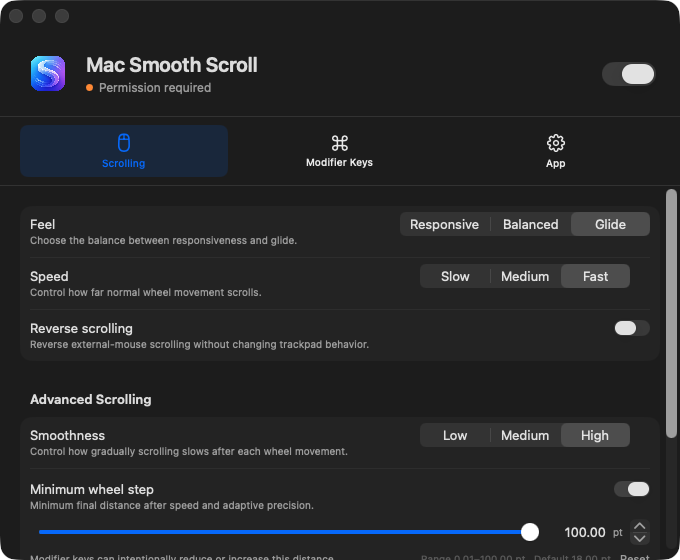
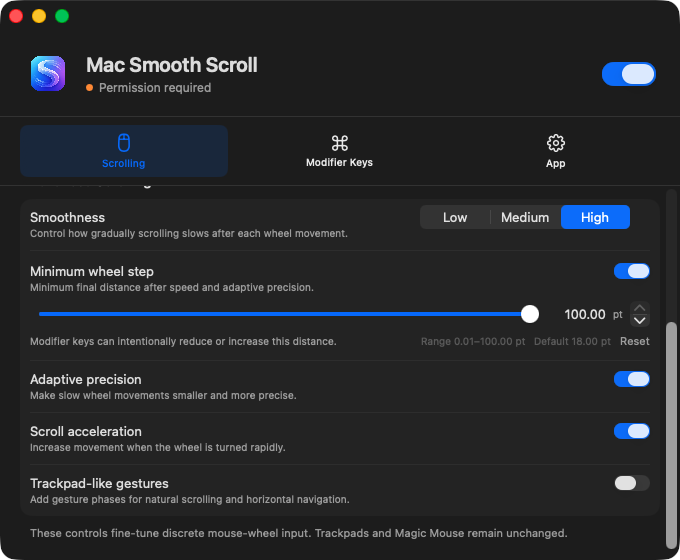
Add configurable scroll acceleration

diff --git a/Tests/MacSmoothScrollTests/ScrollInputTransformerTests.swift b/Tests/MacSmoothScrollTests/ScrollInputTransformerTests.swift
@@ -87,7 +87,7 @@ final class ScrollInputTransformerTests: XCTestCase {
         XCTAssertEqual(first.y, 6, accuracy: 0.0001)
         XCTAssertEqual(isolated.y, 6, accuracy: 0.0001)
         XCTAssertEqual(slower.y, 13, accuracy: 0.0001)
-        XCTAssertEqual(rapid.y, 21.232, accuracy: 0.0001)
+        XCTAssertEqual(rapid.y, 24.4, accuracy: 0.0001)
     }
 
     func testResetClearsAdaptivePrecisionHistory() {
@@ -228,6 +228,74 @@ final class ScrollInputTransformerTests: XCTestCase {
         XCTAssertEqual(result.impulse.y, 0.432, accuracy: 0.0001)
     }
 
+    func testDisabledAccelerationDoesNotBoostRapidInput() {
+        var transformer = ScrollInputTransformer()
+        let config = configuration(
+            smoothness: .low,
+            minimumStepEnabled: false,
+            accelerationEnabled: false
+        )
+
+        let first = transformer.transform(
+            sample(pointY: 100, timestamp: 1),
+            using: config
+        )
+        let rapid = transformer.transform(
+            sample(pointY: 100, timestamp: 1.05),
+            using: config
+        )
+
+        XCTAssertEqual(first.impulse.y, 20, accuracy: 0.0001)
+        XCTAssertEqual(rapid.impulse.y, 20, accuracy: 0.0001)
+    }
+
+    func testAccelerationStateUsesDistanceInsteadOfEventCount() {
+        let config = configuration(
+            smoothness: .low,
+            minimumStepEnabled: false,
+            accelerationEnabled: true
+        )
+        var unsplitTransformer = ScrollInputTransformer()
+        var splitTransformer = ScrollInputTransformer()
+
+        _ = unsplitTransformer.transform(
+            sample(pointY: 18, timestamp: 1),
+            using: config
+        )
+        _ = unsplitTransformer.transform(
+            sample(pointY: 18, timestamp: 1.05),
+            using: config
+        )
+
+        _ = splitTransformer.transform(
+            sample(pointY: 18, timestamp: 1),
+            using: config
+        )
+        _ = splitTransformer.transform(
+            sample(pointY: 9, timestamp: 1.025),
+            using: config
+        )
+        _ = splitTransformer.transform(
+            sample(pointY: 9, timestamp: 1.05),
+            using: config
+        )
+
+        let unsplitProbe = unsplitTransformer.transform(
+            sample(pointY: 18, timestamp: 1.1),
+            using: config
+        )
+        let splitProbe = splitTransformer.transform(
+            sample(pointY: 18, timestamp: 1.1),
+            using: config
+        )
+
+        XCTAssertEqual(
+            unsplitProbe.impulse.y,
+            splitProbe.impulse.y,
+            accuracy: 0.0001
+        )
+    }
+
     func testStepLeavesLargeAndZeroDeltasUnchanged() {
         var transformer = ScrollInputTransformer()
         let result = transformer.transform(
@@ -311,6 +379,7 @@ final class ScrollInputTransformerTests: XCTestCase {
         feel: ScrollFeel = .balanced,
         reverseDirection: Bool = false,
         adaptivePrecision: Bool = false,
+        accelerationEnabled: Bool = true,
         horizontalModifier: ModifierKey = .shift,
         zoomModifier: ModifierKey = .command,
         swiftModifier: ModifierKey = .control,
@@ -324,6 +393,7 @@ final class ScrollInputTransformerTests: XCTestCase {
             feel: feel,
             reverseDirection: reverseDirection,
             adaptivePrecision: adaptivePrecision,
+            accelerationEnabled: accelerationEnabled,
             horizontalModifier: horizontalModifier,
             zoomModifier: zoomModifier,
             swiftModifier: swiftModifier,

diff --git a/Tests/MacSmoothScrollTests/ScrollSettingsTests.swift b/Tests/MacSmoothScrollTests/ScrollSettingsTests.swift
@@ -31,6 +31,7 @@ final class ScrollSettingsTests: XCTestCase {
         XCTAssertTrue(settings.trackpadSimulation)
         XCTAssertFalse(settings.reverseDirection)
         XCTAssertTrue(settings.adaptivePrecision)
+        XCTAssertTrue(settings.accelerationEnabled)
         XCTAssertEqual(settings.horizontalModifier, .shift)
         XCTAssertEqual(settings.zoomModifier, .command)
         XCTAssertEqual(settings.swiftModifier, .control)
@@ -54,6 +55,7 @@ final class ScrollSettingsTests: XCTestCase {
         settings.trackpadSimulation = false
         settings.reverseDirection = true
         settings.adaptivePrecision = false
+        settings.accelerationEnabled = false
         settings.horizontalModifier = .control
         settings.zoomModifier = .option
         settings.swiftModifier = .shift
@@ -72,6 +74,7 @@ final class ScrollSettingsTests: XCTestCase {
         XCTAssertFalse(reloaded.trackpadSimulation)
         XCTAssertTrue(reloaded.reverseDirection)
         XCTAssertFalse(reloaded.adaptivePrecision)
+        XCTAssertFalse(reloaded.accelerationEnabled)
         XCTAssertEqual(reloaded.horizontalModifier, .control)
         XCTAssertEqual(reloaded.zoomModifier, .option)
         XCTAssertEqual(reloaded.swiftModifier, .shift)
@@ -92,6 +95,7 @@ final class ScrollSettingsTests: XCTestCase {
         settings.trackpadSimulation = false
         settings.reverseDirection = true
         settings.adaptivePrecision = false
+        settings.accelerationEnabled = false
         settings.horizontalModifier = .none
         settings.zoomModifier = .none
         settings.swiftModifier = .none
@@ -110,6 +114,7 @@ final class ScrollSettingsTests: XCTestCase {
         XCTAssertTrue(settings.trackpadSimulation)
         XCTAssertFalse(settings.reverseDirection)
         XCTAssertTrue(settings.adaptivePrecision)
+        XCTAssertTrue(settings.accelerationEnabled)
         XCTAssertEqual(settings.horizontalModifier, .shift)
         XCTAssertEqual(settings.zoomModifier, .command)
         XCTAssertEqual(settings.swiftModifier, .control)
@@ -180,6 +185,12 @@ final class ScrollSettingsTests: XCTestCase {
 
         XCTAssertTrue(settings.minimumStepEnabled)
         XCTAssertEqual(settings.minimumStepDistance, 42.5, accuracy: 0.0001)
+    }
+
+    func testLegacySettingsEnableAccelerationByDefault() {
+        defaults.set(ScrollFeel.glide.rawValue, forKey: "scroll.feel")
+
+        XCTAssertTrue(makeSettings().accelerationEnabled)
     }
 
     func testDisabledMinimumStepRetainsItsValueAcrossInstances() {

diff --git a/Sources/MacSmoothScroll/ScrollInputTransformer.swift b/Sources/MacSmoothScroll/ScrollInputTransformer.swift
@@ -18,6 +18,7 @@ struct ScrollTransformConfiguration {
     let feel: ScrollFeel
     let reverseDirection: Bool
     let adaptivePrecision: Bool
+    let accelerationEnabled: Bool
     let horizontalModifier: ModifierKey
     let zoomModifier: ModifierKey
     let swiftModifier: ModifierKey
@@ -103,11 +104,15 @@ struct ScrollInputTransformer {
             baseMultiplier *= adaptivePrecisionMultiplier(interval: interval)
         }
 
-        if modifierResolution.speedAction.allowsRapidInputAcceleration {
+        if modifierResolution.speedAction.allowsRapidInputAcceleration,
+           configuration.accelerationEnabled {
             baseMultiplier *= rapidInputMultiplier(
                 interval: interval,
+                inputDistance: max(abs(x), abs(y)),
                 maximumBoost: configuration.feel.rapidInputBoost
             )
+        } else if !configuration.accelerationEnabled {
+            rapidInputLevel = 0
         }
 
         x *= baseMultiplier
@@ -173,17 +178,23 @@ struct ScrollInputTransformer {
 
     private mutating func rapidInputMultiplier(
         interval: TimeInterval?,
+        inputDistance: Double,
         maximumBoost: Double
     ) -> Double {
-        guard let interval else { return 1 }
-
-        if interval < 0.055 {
-            rapidInputLevel += 0.28
-        } else if interval < 0.09 {
-            rapidInputLevel += 0.16
-        } else {
-            rapidInputLevel -= 0.25
+        guard let interval else {
+            rapidInputLevel = 0
+            return 1
         }
+        guard interval >= 0, interval < 0.12 else {
+            rapidInputLevel = 0
+            return 1
+        }
+
+        // Build acceleration from total physical movement and elapsed time
+        // instead of event count. Mice that split the same wheel movement into
+        // more events therefore reach the same acceleration level.
+        rapidInputLevel -= interval
+        rapidInputLevel += inputDistance / 72
         rapidInputLevel = min(max(rapidInputLevel, 0), 1)
         return 1 + (rapidInputLevel * maximumBoost)
     }
@@ -199,6 +210,7 @@ extension ScrollSettings {
             feel: feel,
             reverseDirection: reverseDirection,
             adaptivePrecision: adaptivePrecision,
+            accelerationEnabled: accelerationEnabled,
             horizontalModifier: horizontalModifier,
             zoomModifier: zoomModifier,
             swiftModifier: swiftModifier,

diff --git a/Sources/MacSmoothScroll/ScrollSettings.swift b/Sources/MacSmoothScroll/ScrollSettings.swift
@@ -148,6 +148,7 @@ final class ScrollSettings: ObservableObject {
         static let trackpadSimulation = "scroll.trackpadSimulation"
         static let reverseDirection = "scroll.reverseDirection"
         static let adaptivePrecision = "scroll.adaptivePrecision"
+        static let accelerationEnabled = "scroll.accelerationEnabled"
         static let horizontalModifier = "modifier.horizontal"
         static let zoomModifier = "modifier.zoom"
         static let swiftModifier = "modifier.swift"
@@ -200,6 +201,9 @@ final class ScrollSettings: ObservableObject {
     }
     @Published var adaptivePrecision: Bool {
         didSet { persist(Key.adaptivePrecision, adaptivePrecision) }
+    }
+    @Published var accelerationEnabled: Bool {
+        didSet { persist(Key.accelerationEnabled, accelerationEnabled) }
     }
     @Published var horizontalModifier: ModifierKey {
         didSet { persist(Key.horizontalModifier, horizontalModifier.rawValue) }
@@ -268,6 +272,8 @@ final class ScrollSettings: ObservableObject {
         trackpadSimulation = defaults.object(forKey: Key.trackpadSimulation) as? Bool ?? true
         reverseDirection = defaults.object(forKey: Key.reverseDirection) as? Bool ?? false
         adaptivePrecision = defaults.object(forKey: Key.adaptivePrecision) as? Bool ?? true
+        accelerationEnabled =
+            defaults.object(forKey: Key.accelerationEnabled) as? Bool ?? true
         horizontalModifier = ModifierKey(rawValue: defaults.string(forKey: Key.horizontalModifier) ?? "") ?? .shift
         zoomModifier = ModifierKey(rawValue: defaults.string(forKey: Key.zoomModifier) ?? "") ?? .command
         swiftModifier = ModifierKey(rawValue: defaults.string(forKey: Key.swiftModifier) ?? "") ?? .control
@@ -417,6 +423,7 @@ final class ScrollSettings: ObservableObject {
         trackpadSimulation = true
         reverseDirection = false
         adaptivePrecision = true
+        accelerationEnabled = true
         horizontalModifier = .shift
         zoomModifier = .command
         swiftModifier = .control

diff --git a/Sources/MacSmoothScroll/SettingsView.swift b/Sources/MacSmoothScroll/SettingsView.swift
@@ -355,6 +355,15 @@ struct SettingsView: View {
                 }
             }
 
+            Toggle(isOn: $settings.accelerationEnabled) {
+                VStack(alignment: .leading, spacing: 2) {
+                    Text("Scroll acceleration")
+                    Text("Increase movement when the wheel is turned rapidly.")
+                        .font(.caption)
+                        .foregroundStyle(.secondary)
+                }
+            }
+
             Toggle(isOn: $settings.trackpadSimulation) {
                 VStack(alignment: .leading, spacing: 2) {
                     Text("Trackpad-like gestures")

diff --git a/Tests/MacSmoothScrollTests/ScrollModifierResolverTests.swift b/Tests/MacSmoothScrollTests/ScrollModifierResolverTests.swift
@@ -155,6 +155,7 @@ final class ScrollModifierResolverTests: XCTestCase {
             feel: .balanced,
             reverseDirection: false,
             adaptivePrecision: false,
+            accelerationEnabled: true,
             horizontalModifier: horizontalModifier,
             zoomModifier: zoomModifier,
             swiftModifier: swiftModifier,

diff --git a/docs/MANUAL_REGRESSION_CHECKLIST.md b/docs/MANUAL_REGRESSION_CHECKLIST.md
@@ -83,9 +83,10 @@ Use a long document or webpage with enough content to make changes obvious.
 | C6 | Set **Minimum wheel step** near its minimum, default, and maximum, then turn it off and on again. | Enabled input respects the configured minimum; when disabled, its controls remain visible but unavailable and input does not enforce it; the saved value returns unchanged when re-enabled. | |
 | C7 | Enable **Reverse scrolling** and test the external mouse, then the native input. | External-wheel direction reverses; trackpad or Magic Mouse direction does not change. | |
 | C8 | Enable **Adaptive precision**, pause, then move one notch and follow with rapid notches. | The first movement is precise and subsequent rapid movement ramps smoothly. | |
-| C9 | Reverse wheel direction while momentum remains. | Existing momentum brakes immediately rather than sliding far in the old direction. | |
-| C10 | Enable **Trackpad-like gestures** and test a compatible horizontal-navigation view. | Gesture phases begin, change, and end cleanly; navigation does not remain stuck. | |
-| C11 | Test on each available 60 Hz and high-refresh-rate display. | Perceived distance remains comparable and animation stays display-synchronized. | |
+| C9 | Compare rapid wheel movement with **Scroll acceleration** off and on using each available external mouse. | Off preserves normal transformed distance; On adds a consistent speed boost without a sudden jump on mice that emit many small events. | |
+| C10 | Reverse wheel direction while momentum remains. | Existing momentum brakes immediately rather than sliding far in the old direction. | |
+| C11 | Enable **Trackpad-like gestures** and test a compatible horizontal-navigation view. | Gesture phases begin, change, and end cleanly; navigation does not remain stuck. | |
+| C12 | Test on each available 60 Hz and high-refresh-rate display. | Perceived distance remains comparable and animation stays display-synchronized. | |
 
 ## D. Modifier keys
 

diff --git a/README.md b/README.md
@@ -21,7 +21,7 @@ trackpad and Magic Mouse events untouched.
 - Display-synchronized motion on 60 Hz and high-refresh-rate screens
 - Optional trackpad-like gesture phases
 - External-mouse-only reverse direction
-- Adaptive first-notch precision with cadence-based acceleration
+- Adaptive first-notch precision with optional movement-based acceleration
 - Immediate braking on direction changes and bounded maximum velocity
 - Dominant-axis locking that filters diagonal wheel noise
 - Configurable horizontal, zoom, swift, and precision modifier keys
@@ -151,6 +151,9 @@ reopened.
   remains available when you turn it on again.
 - Enable **Adaptive precision** to make the first wheel step after idle precise,
   then ramp smoothly as the wheel is moved faster.
+- Enable **Scroll acceleration** to increase movement during rapid wheel input.
+  Acceleration uses total wheel distance and elapsed time so mice that divide
+  the same movement into different numbers of events behave consistently.
 - Enable **Trackpad-like gestures** to add gesture phases used by natural
   scrolling and horizontal navigation.
 - In **Modifier Keys**, assign keys for horizontal scrolling, zoom, faster

diff --git a/docs/PRIVACY.md b/docs/PRIVACY.md
@@ -19,7 +19,8 @@ The following choices are stored locally with macOS `UserDefaults`:
 - Whether smooth scrolling is enabled
 - Smoothness, speed, scroll feel, and whether Minimum wheel step is enabled,
   including its saved distance
-- Trackpad-like gestures, reverse scrolling, and adaptive precision
+- Trackpad-like gestures, reverse scrolling, adaptive precision, and scroll
+  acceleration
 - Modifier assignments
 - Menu-bar visibility
 - Launch at Login preference and the last registered helper build
